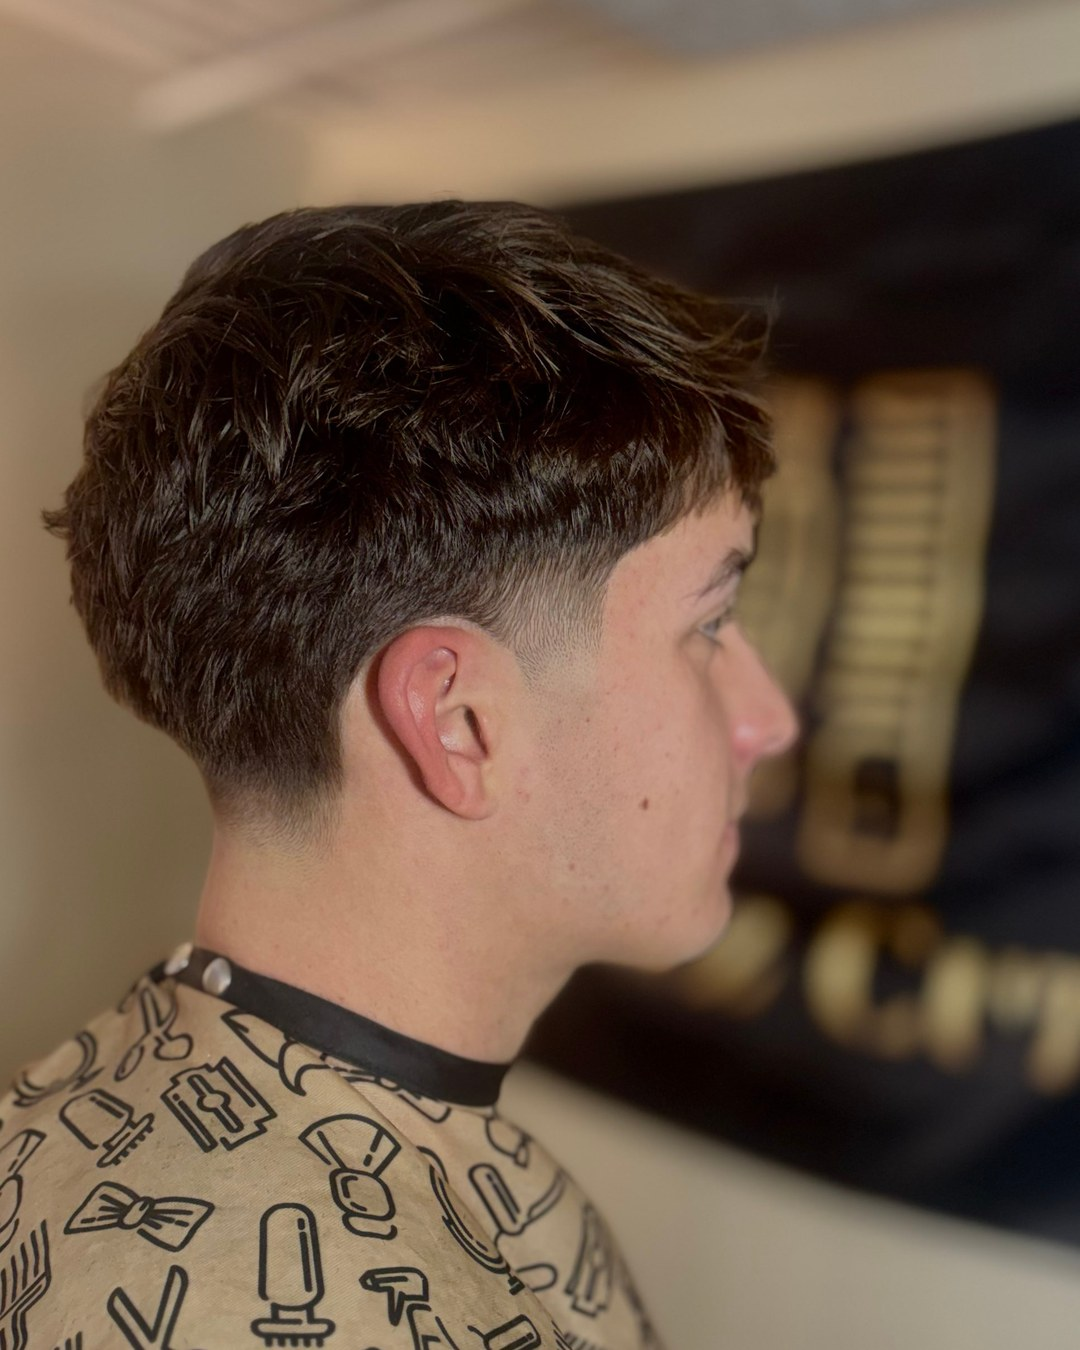
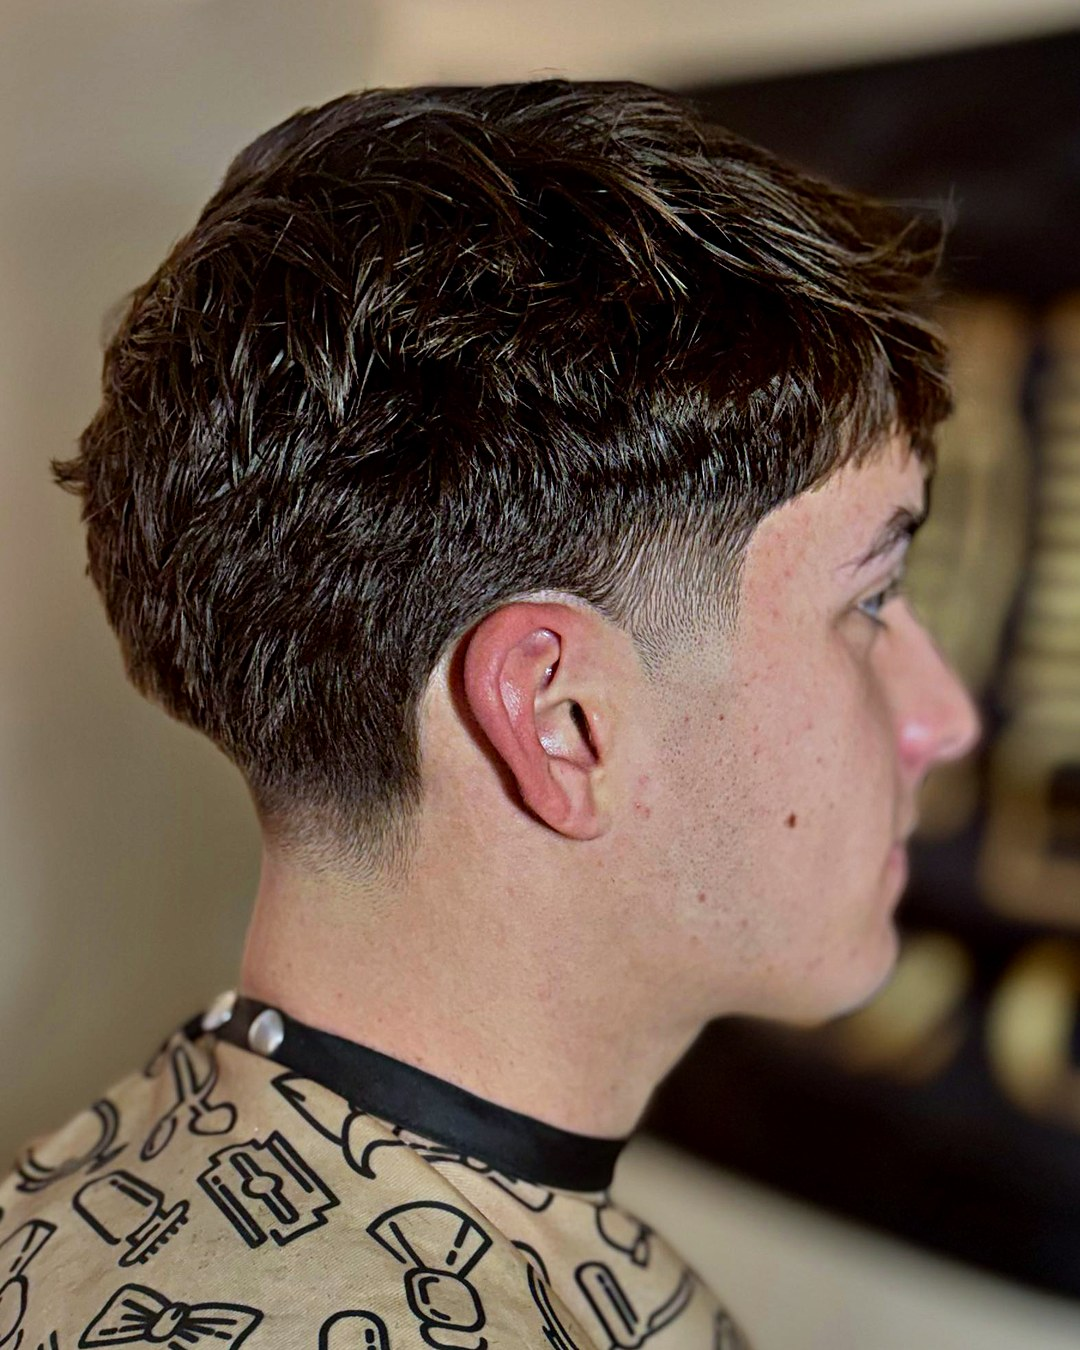
Portfolio Nov 20: light touch-up (color, lighting, hair definition), tighter crops, drop burst fade close-up (8 photos)
Claude-Session: https://claude.ai/code/session_01GpJd7k771qWAkwgN7BiGB7

diff --git a/assets/js/api.js b/assets/js/api.js
@@ -223,7 +223,7 @@
       reviews.forEach(([b, n, dt]) => d.reviews.push({ id: uuid(), appointment_id: null, client_id: null, rating: 5, body: b, display_name: n, label: '', source: 'booksy', status: 'published', reply: '', created_at: new Date(dt + 'T19:00:00Z').toISOString() }));
 
       // Miguel's real photos, grouped into boxes by category (first photo in a box is the cover)
-      [["Taper Fade", "/assets/img/portfolio/super-clean-taper-fade.jpg"], ["Taper Fade", "/assets/img/portfolio/batu-taper.jpg"], ["Taper Fade", "/assets/img/portfolio/chris-taper-and-beard-2.jpg"], ["Taper Fade", "/assets/img/portfolio/chris-taper-and-beard.jpg"], ["Taper Fade", "/assets/img/portfolio/clean-taper-fade.jpg"], ["Taper Fade", "/assets/img/portfolio/low-fade.jpg"], ["Taper Fade", "/assets/img/portfolio/rakan-taper-fade.jpg"], ["Taper Fade", "/assets/img/portfolio/takumi-taper-fade.jpg"], ["Taper Fade", "/assets/img/portfolio/taper-fade-3.jpg"], ["Taper Fade", "/assets/img/portfolio/taper-fade-4.jpg"], ["Taper Fade", "/assets/img/portfolio/taper-fade-axel.jpg"], ["Taper Fade", "/assets/img/portfolio/taper-fade-buzz-cut.jpg"], ["Taper Fade", "/assets/img/portfolio/taper-fade-danny.jpg"], ["Taper Fade", "/assets/img/portfolio/taper-fade-jeremey.jpg"], ["Taper Fade", "/assets/img/portfolio/taper-fade-miles.jpg"], ["Taper Fade", "/assets/img/portfolio/taper-fade-nolan.jpg"], ["Taper Fade", "/assets/img/portfolio/taper-fade-seby.jpg"], ["Taper Fade", "/assets/img/portfolio/taper-fade-takumi.jpg"], ["Taper Fade", "/assets/img/portfolio/taper-fade-zach.jpg"], ["Taper Fade", "/assets/img/portfolio/taper-fade.jpg"], ["Taper Fade", "/assets/img/portfolio/taper-fade1.jpg"], ["Taper Fade", "/assets/img/portfolio/taper-ty.jpg"], ["Taper Fade", "/assets/img/portfolio/taper-will.jpg"], ["Taper Fade", "/assets/img/portfolio/wiley-taper.jpg"], ["Taper Fade", "/assets/img/portfolio/textured-taper-blond.jpg"], ["Taper Fade", "/assets/img/portfolio/textured-taper-blond-2.jpg"], ["Taper Fade", "/assets/img/portfolio/taper-fade-textured-top.jpg"], ["Taper Fade", "/assets/img/portfolio/taper-fade-dark-side.jpg"], ["Taper Fade", "/assets/img/portfolio/textured-fringe-taper.jpg"], ["Burst Fade", "/assets/img/portfolio/burst-fade-seby.jpg"], ["Burst Fade", "/assets/img/portfolio/burst-fade-aj.jpg"], ["Burst Fade", "/assets/img/portfolio/burst-fade-aj-better.jpg"], ["Burst Fade", "/assets/img/portfolio/burst-fade-cyrus.jpg"], ["Burst Fade", "/assets/img/portfolio/burst-fade-kyler.jpg"], ["Burst Fade", "/assets/img/portfolio/burst-fade-luke.jpg"], ["Burst Fade", "/assets/img/portfolio/burst-fade-pattock.jpg"], ["Burst Fade", "/assets/img/portfolio/miguel-burst-fade.jpg"], ["Burst Fade", "/assets/img/portfolio/seby-burst-fade.jpg"], ["Burst Fade", "/assets/img/portfolio/burst-fade-textured.jpg"], ["Burst Fade", "/assets/img/portfolio/burst-fade-textured-2.jpg"], ["Scissor Work", "/assets/img/portfolio/hink-scissor-work.jpg"], ["Scissor Work", "/assets/img/portfolio/scissor-work-james.jpg"], ["Scissor Work", "/assets/img/portfolio/scissor-work-2.jpg"], ["Scissor Work", "/assets/img/portfolio/scissor-work-4.jpg"], ["Scissor Work", "/assets/img/portfolio/scissor-work-boden.jpg"], ["Scissor Work", "/assets/img/portfolio/scissor-work-greyson.jpg"], ["Scissor Work", "/assets/img/portfolio/scissor-work-lucas-2.jpg"], ["Scissor Work", "/assets/img/portfolio/scissor-work-lucas-3.jpg"], ["Scissor Work", "/assets/img/portfolio/scissor-work-lucas.jpg"], ["Scissor Work", "/assets/img/portfolio/scissor-work-patrick.jpg"], ["Scissor Work", "/assets/img/portfolio/scissor-work-will.jpg"], ["Scissor Work", "/assets/img/portfolio/scissor-work.jpg"], ["Modern Mullet", "/assets/img/portfolio/modern-mullet-noah.jpg"], ["Modern Mullet", "/assets/img/portfolio/modern-mullet-jek.jpg"], ["Modern Mullet", "/assets/img/portfolio/modern-mullet.jpg"], ["Modern Mullet", "/assets/img/portfolio/mullet-luca.jpg"], ["Modern Mullet", "/assets/img/portfolio/rakan-modern-mullet.jpg"], ["Modern Mullet", "/assets/img/portfolio/will-booth-modern-mullet.jpg"], ["Modern Mullet", "/assets/img/portfolio/modern-mullet-layered.jpg"], ["Modern Mullet", "/assets/img/portfolio/modern-mullet-layered-2.jpg"], ["Burst Mullet", "/assets/img/portfolio/burst-mullet-gio.jpg"], ["Burst Mullet", "/assets/img/portfolio/burst-mullet-bender.jpg"], ["Burst Mullet", "/assets/img/portfolio/burst-mullet-cyrus.jpg"], ["Burst Mullet", "/assets/img/portfolio/burst-mullet.jpg"], ["Mod Cut", "/assets/img/portfolio/mod-cut-gus.jpg"], ["Mod Cut", "/assets/img/portfolio/mod-cut.jpg"]]
+      [["Taper Fade", "/assets/img/portfolio/super-clean-taper-fade.jpg"], ["Taper Fade", "/assets/img/portfolio/batu-taper.jpg"], ["Taper Fade", "/assets/img/portfolio/chris-taper-and-beard-2.jpg"], ["Taper Fade", "/assets/img/portfolio/chris-taper-and-beard.jpg"], ["Taper Fade", "/assets/img/portfolio/clean-taper-fade.jpg"], ["Taper Fade", "/assets/img/portfolio/low-fade.jpg"], ["Taper Fade", "/assets/img/portfolio/rakan-taper-fade.jpg"], ["Taper Fade", "/assets/img/portfolio/takumi-taper-fade.jpg"], ["Taper Fade", "/assets/img/portfolio/taper-fade-3.jpg"], ["Taper Fade", "/assets/img/portfolio/taper-fade-4.jpg"], ["Taper Fade", "/assets/img/portfolio/taper-fade-axel.jpg"], ["Taper Fade", "/assets/img/portfolio/taper-fade-buzz-cut.jpg"], ["Taper Fade", "/assets/img/portfolio/taper-fade-danny.jpg"], ["Taper Fade", "/assets/img/portfolio/taper-fade-jeremey.jpg"], ["Taper Fade", "/assets/img/portfolio/taper-fade-miles.jpg"], ["Taper Fade", "/assets/img/portfolio/taper-fade-nolan.jpg"], ["Taper Fade", "/assets/img/portfolio/taper-fade-seby.jpg"], ["Taper Fade", "/assets/img/portfolio/taper-fade-takumi.jpg"], ["Taper Fade", "/assets/img/portfolio/taper-fade-zach.jpg"], ["Taper Fade", "/assets/img/portfolio/taper-fade.jpg"], ["Taper Fade", "/assets/img/portfolio/taper-fade1.jpg"], ["Taper Fade", "/assets/img/portfolio/taper-ty.jpg"], ["Taper Fade", "/assets/img/portfolio/taper-will.jpg"], ["Taper Fade", "/assets/img/portfolio/wiley-taper.jpg"], ["Taper Fade", "/assets/img/portfolio/textured-taper-blond.jpg"], ["Taper Fade", "/assets/img/portfolio/textured-taper-blond-2.jpg"], ["Taper Fade", "/assets/img/portfolio/taper-fade-textured-top.jpg"], ["Taper Fade", "/assets/img/portfolio/taper-fade-dark-side.jpg"], ["Taper Fade", "/assets/img/portfolio/textured-fringe-taper.jpg"], ["Burst Fade", "/assets/img/portfolio/burst-fade-seby.jpg"], ["Burst Fade", "/assets/img/portfolio/burst-fade-aj.jpg"], ["Burst Fade", "/assets/img/portfolio/burst-fade-aj-better.jpg"], ["Burst Fade", "/assets/img/portfolio/burst-fade-cyrus.jpg"], ["Burst Fade", "/assets/img/portfolio/burst-fade-kyler.jpg"], ["Burst Fade", "/assets/img/portfolio/burst-fade-luke.jpg"], ["Burst Fade", "/assets/img/portfolio/burst-fade-pattock.jpg"], ["Burst Fade", "/assets/img/portfolio/miguel-burst-fade.jpg"], ["Burst Fade", "/assets/img/portfolio/seby-burst-fade.jpg"], ["Burst Fade", "/assets/img/portfolio/burst-fade-textured.jpg"], ["Scissor Work", "/assets/img/portfolio/hink-scissor-work.jpg"], ["Scissor Work", "/assets/img/portfolio/scissor-work-james.jpg"], ["Scissor Work", "/assets/img/portfolio/scissor-work-2.jpg"], ["Scissor Work", "/assets/img/portfolio/scissor-work-4.jpg"], ["Scissor Work", "/assets/img/portfolio/scissor-work-boden.jpg"], ["Scissor Work", "/assets/img/portfolio/scissor-work-greyson.jpg"], ["Scissor Work", "/assets/img/portfolio/scissor-work-lucas-2.jpg"], ["Scissor Work", "/assets/img/portfolio/scissor-work-lucas-3.jpg"], ["Scissor Work", "/assets/img/portfolio/scissor-work-lucas.jpg"], ["Scissor Work", "/assets/img/portfolio/scissor-work-patrick.jpg"], ["Scissor Work", "/assets/img/portfolio/scissor-work-will.jpg"], ["Scissor Work", "/assets/img/portfolio/scissor-work.jpg"], ["Modern Mullet", "/assets/img/portfolio/modern-mullet-noah.jpg"], ["Modern Mullet", "/assets/img/portfolio/modern-mullet-jek.jpg"], ["Modern Mullet", "/assets/img/portfolio/modern-mullet.jpg"], ["Modern Mullet", "/assets/img/portfolio/mullet-luca.jpg"], ["Modern Mullet", "/assets/img/portfolio/rakan-modern-mullet.jpg"], ["Modern Mullet", "/assets/img/portfolio/will-booth-modern-mullet.jpg"], ["Modern Mullet", "/assets/img/portfolio/modern-mullet-layered.jpg"], ["Modern Mullet", "/assets/img/portfolio/modern-mullet-layered-2.jpg"], ["Burst Mullet", "/assets/img/portfolio/burst-mullet-gio.jpg"], ["Burst Mullet", "/assets/img/portfolio/burst-mullet-bender.jpg"], ["Burst Mullet", "/assets/img/portfolio/burst-mullet-cyrus.jpg"], ["Burst Mullet", "/assets/img/portfolio/burst-mullet.jpg"], ["Mod Cut", "/assets/img/portfolio/mod-cut-gus.jpg"], ["Mod Cut", "/assets/img/portfolio/mod-cut.jpg"]]
         .forEach(([c, u], i) => d.portfolio_items.push({ id: uuid(), title: c, category: c, description: '', image_url: u, published: true, sort: 100 + i, created_at: now.toISOString() }));
 
       const first = ['Andre', 'Bryce', 'Carlos', 'Dante', 'Eli', 'Fabian', 'Gavin', 'Hector', 'Isaiah', 'Jalen', 'Kai', 'Luis', 'Marcus', 'Nico', 'Omar', 'Preston', 'Quinn', 'Rafael', 'Sam', 'Tyrese'];
